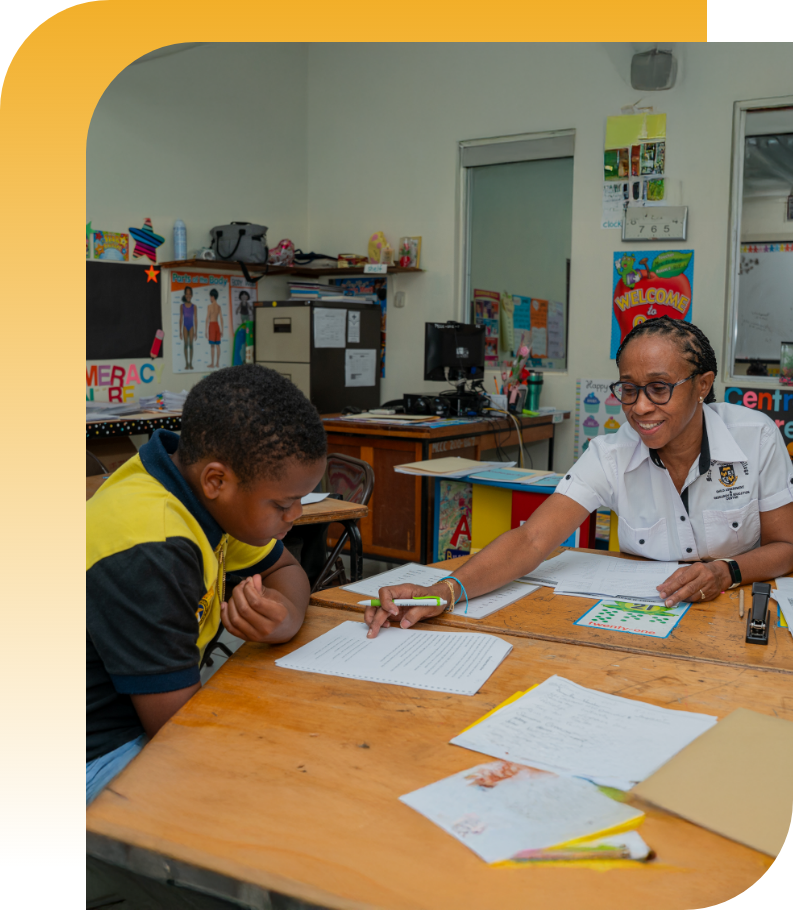
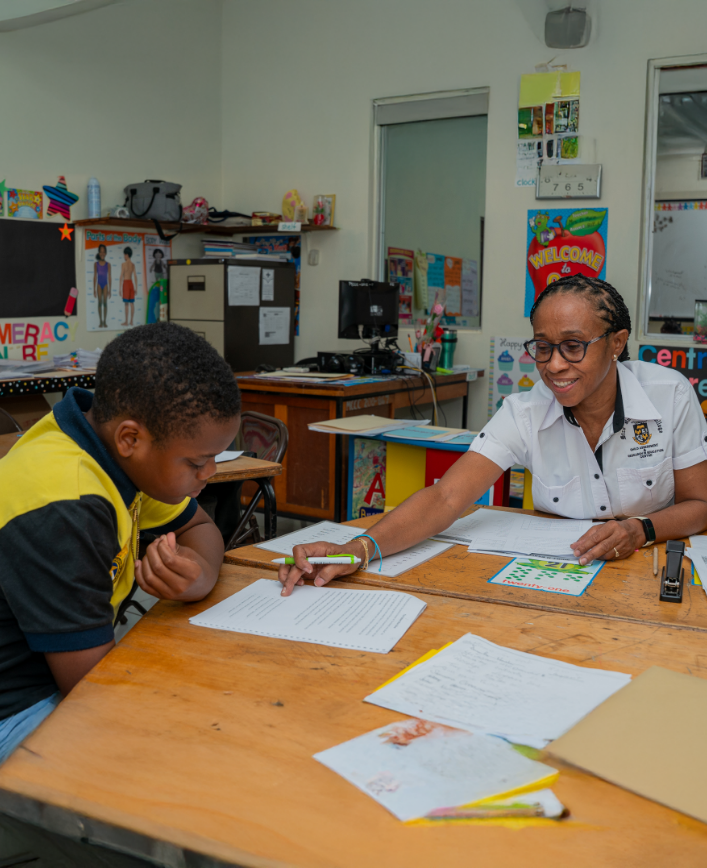
home page image

diff --git a/index.html b/index.html
@@ -251,7 +251,7 @@
     </div> -->
   </div>
       <div class="row my-5">
-        <div class="col-md-6">
+        <div class="col-md-6 about-section-image">
             <img src="assets/images/home/about-section-image.png" class="mw-100" alt="about-section-image">
         </div>
         <div class="col-md-6">

diff --git a/assets/css/home-style.css b/assets/css/home-style.css
@@ -207,6 +207,17 @@
     max-width: 340px;
 
 }
+.about-section-image img {
+    border-radius: 110px 0 110px 0px;
+    margin-left: 35px;
+    margin-top: 25px;
+}
+
+.about-section-image img{
+border-radius: 110px 0 110px 0px;
+margin-left: 20px;
+margin-top: 20px;
+}
 
 .about-us p {
        font-size: 25px;
